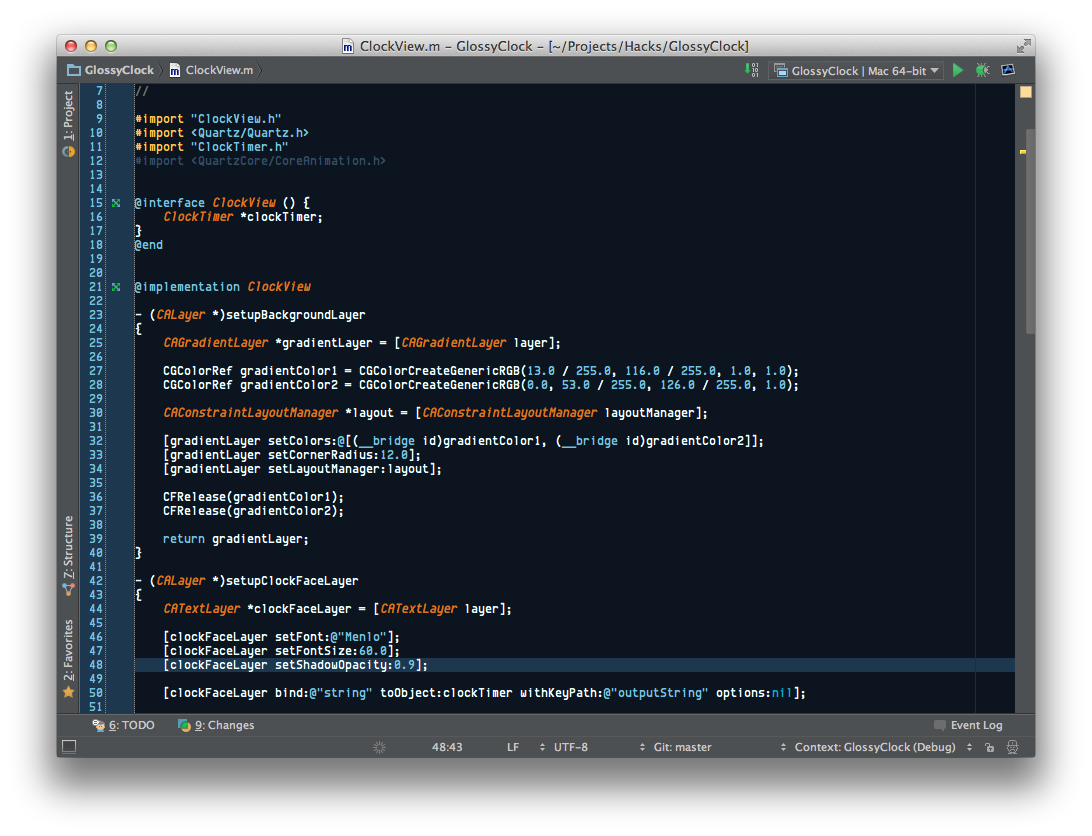
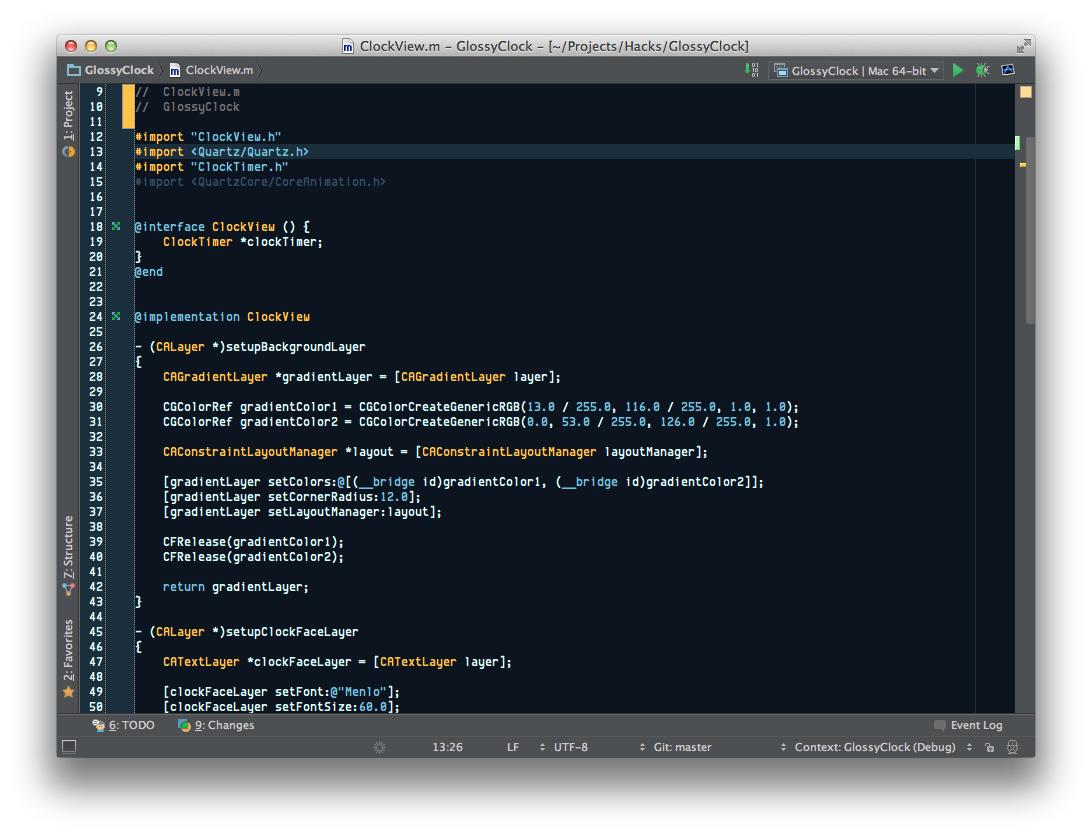
appcode: more color tweakage and updated screenshot.

Changed region(s): [[0.0623, 0.0933, 0.9341, 0.8708], [0.9341, 0.3732, 0.9652, 0.4043], [0.4048, 0.8708, 0.4359, 0.9019]]

diff --git a/README.md b/README.md
@@ -4,8 +4,8 @@ Tron Legacy inspired color theme.
 
 Colors used:
 * Background: rgb(11,16,24), #0b1018
-* Foreground: rgb(224,255,255), #e0ffff
-* Gutter/Current row: rgb(21,41,62), #15293e
+* Foreground/Line number: rgb(204,255,250), #ccfffa
+* Gutter/Current row: rgb(21,34,45), #15222d
 * Blue: rgb(91,182,217), #5bb6d9
 * Yellow: rgb(255,185,43), #ffb92b
 * Orange: rgb(216,95,0), #d85f00
